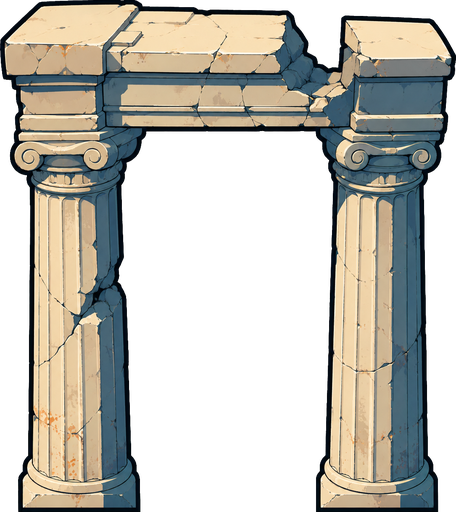
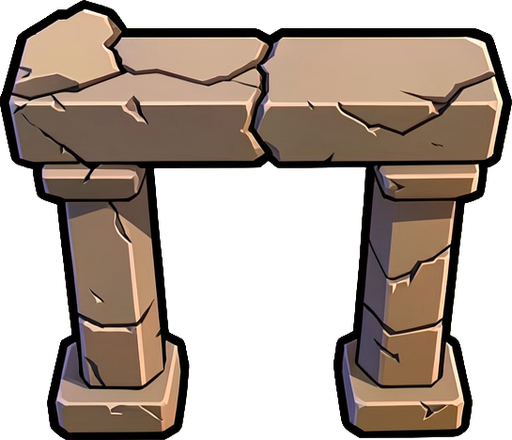
Арт Исмары: корабль, храм, каменные пропы, палица и детали кикона
Одиннадцать картинок из локальной очереди. Что изменилось на экране:

Берег перестал быть пустым полем — на нём стоит вытащенный на катки
корабль. Арена перестала быть четырьмя серыми колоннами: за спиной босса
стоит сгоревший храм, и площадь наконец читается так, как описана в
islands/01-ismaros.md. Колонны, ворота, валун и щебень были геометрией и
на фоне нарисованных хижины и шпалеры смотрелись бетонными плитами —
теперь они одной руки с остальным островом. Палица легла в руку вместо
меча.

Обычный кикон собирается из частей и машет: тело, рука, нога отдельными
картинками на общем риге.

Две ошибки, которые нашлись на скриншотах и здесь же исправлены:

Риг был один на остров и подменял собой элиту, вождя и босса — на арене
вместо бронзового вождя с бычьим черепом стоял увеличенный рядовой кикон.
Теперь риг задаётся по тирам, и своя картинка тира никуда не девается.

Ландмарки ставились по доле мира без оглядки на землю. Высота мира зависит
от окна, а срез под HUD абсолютный: на низком окне верхняя зона сжимается,
и храм с долей 0.075 повис над чёрным полем за стеной. Клампятся в ту же
землю, по которой ходит игрок; на этот случай заведён отдельный тест с
низким миром — на высоком такой ландмарк проходит.

tools/cutout.py считает рамку по непрозрачному, а не по любой альфе: мягкая
тень генератора оставляла по краю кадра единичные пиксели, getbbox отдавал
весь квадрат, и корабль уезжал в середину пустого поля — движок ставит на
[…]

diff --git a/src/ui/AssetManifest.ts b/src/ui/AssetManifest.ts
@@ -41,12 +41,12 @@ export const SPRITES = {
   'odysseus-cloak': { src: 'art/entities/odysseus/cloak.png', width: 366, height: 384 },
   'odysseus-sword': { src: 'art/entities/odysseus/sword.png', width: 123, height: 384 },
   'odysseus-spear': { src: 'art/entities/odysseus/spear.png', width: 45, height: 384 },
-  'odysseus-club': { src: 'art/entities/odysseus/club.png', width: 96, height: 384 },
+  'odysseus-club': { src: 'art/entities/club.png', width: 108, height: 512 },
   // Детали кикона. Костюм на острове один на все три тира (ISLANDS.md §1.5),
   // поэтому набор общий: тиры различает размер фигуры и кольцо ранга.
-  'kikon-torso': { src: 'art/entities/kikon/torso.png', width: 256, height: 384 },
-  'kikon-arm': { src: 'art/entities/kikon/arm.png', width: 96, height: 384 },
-  'kikon-leg': { src: 'art/entities/kikon/leg.png', width: 104, height: 384 },
+  'kikon-torso': { src: 'art/entities/kikon-torso.png', width: 345, height: 442 },
+  'kikon-arm': { src: 'art/entities/kikon-arm.png', width: 149, height: 429 },
+  'kikon-leg': { src: 'art/entities/kikon-leg.png', width: 113, height: 466 },
   'road-segment': { src: 'art/road/segment.png', width: 128, height: 128 },
   'border-wall': { src: 'art/borders/wall.png', width: 512, height: 256 },
 
@@ -64,6 +64,17 @@ export const SPRITES = {
   'prop-cart-broken': { src: 'art/props/cart-broken.png', width: 512, height: 312 },
   'prop-palisade-burnt': { src: 'art/props/palisade-burnt.png', width: 512, height: 421 },
   'prop-hut-burnt': { src: 'art/props/hut-burnt.png', width: 512, height: 341 },
+  // Ландмарки: корабль на берегу и сгоревший храм за спиной босса. Без них
+  // берег оставался пустым полем, а арена — четырьмя серыми колоннами.
+  'prop-ship': { src: 'art/props/ship-beached.png', width: 512, height: 487 },
+  'prop-temple': { src: 'art/props/temple-burnt.png', width: 512, height: 498 },
+  // Колонны, ворота, валун и щебень были геометрией (ui/props/Models.ts) и на
+  // фоне нарисованных хижины и шпалеры читались как серо-голубые плиты.
+  'prop-column': { src: 'art/props/column.png', width: 245, height: 512 },
+  'prop-column-broken': { src: 'art/props/column-broken.png', width: 393, height: 512 },
+  'prop-ruin-gate': { src: 'art/props/ruin-gate.png', width: 512, height: 440 },
+  'prop-rock': { src: 'art/props/rock.png', width: 491, height: 478 },
+  'prop-rubble': { src: 'art/props/rubble.png', width: 435, height: 362 },
 } as const satisfies Record<string, SpriteDef>;
 
 export type SpriteId = keyof typeof SPRITES;

diff --git a/tests/island-layout.test.ts b/tests/island-layout.test.ts
@@ -27,6 +27,18 @@ function makeGame(seed = balance.rng.defaultSeed): Game {
   return new Game(worldWidth, worldHeight, idleInput, () => {}, seed);
 }
 
+/**
+ * Мир на низком окне. Высота мира зависит от окна (viewHeight × worldScreensY),
+ * а верхний срез под HUD — абсолютный. Значит на коротком экране верхняя зона
+ * сжимается сильнее всего, и доля 0.075 уезжает за стену. Проверяется отдельно
+ * именно поэтому: на высоком мире такой ландмарк проходит, а на телефоне с
+ * низким окном повисает над чёрным полем.
+ */
+function makeShortGame(): Game {
+  const shortWorldHeight = 440 * balance.render.worldScreensY;
+  return new Game(worldWidth, shortWorldHeight, idleInput, () => {}, balance.rng.defaultSeed);
+}
+
 const layout = islandLayout(currentIslandId()) as IslandLayout;
 
 describe('Раскладка Исмары', () => {
@@ -254,6 +266,31 @@ describe('Препятствия', () => {
   it('у мелочи следа нет: щебень и черепки игрока не цепляют', () => {
     for (const id of ['prop-rubble', 'prop-rock-small', 'prop-amphora', 'prop-campfire'] as const) {
       expect(footprintOf(id), id).toBeNull();
+    }
+  });
+});
+
+describe('Раскладка на низком окне', () => {
+  beforeEach(() => clearNodes());
+
+  it('ландмарки не уезжают за стену острова', () => {
+    const game = makeShortGame();
+    const land = game.scenery.border;
+    for (const prop of game.scenery.props) {
+      expect(prop.x, `${prop.id} за левым краем`).toBeGreaterThanOrEqual(land.x - 0.001);
+      expect(prop.x, `${prop.id} за правым краем`)
+        .toBeLessThanOrEqual(land.x + land.width + 0.001);
+      expect(prop.y, `${prop.id} выше стены`).toBeGreaterThanOrEqual(land.y - 0.001);
+      expect(prop.y, `${prop.id} ниже стены`)
+        .toBeLessThanOrEqual(land.y + land.height + 0.001);
+    }
+  });
+
+  it('босс и вожди остаются внутри земли', () => {
+    const game = makeShortGame();
+    const land = game.scenery.border;
+    for (const enemy of game.enemies) {
+      expect(enemy.y, `${enemy.tier} выше стены`).toBeGreaterThanOrEqual(land.y - 0.001);
     }
   });
 });

diff --git a/src/ui/IslandArt.ts b/src/ui/IslandArt.ts
@@ -17,11 +17,15 @@ export interface IslandArt {
   /** Фигуры врагов по тиру. Тир без записи падает на общий запасной силуэт. */
   readonly enemies?: Partial<Record<EnemyTier, SpriteId>>;
   /**
-   * Из чего собран враг острова, если его порезали на части. Нет записи —
-   * рисуется цельная картинка, как раньше: недостающие детали не должны
-   * ронять остров, они добавляются по одной.
+   * Из чего собран враг острова, ПО ТИРАМ. Тир без записи рисуется цельной
+   * картинкой, как раньше.
+   *
+   * Именно по тирам, а не один риг на остров: элита, вождь и босс отличаются
+   * бронёй, плащом и гребнем (ISLANDS.md §1.5), и общий набор деталей стёр бы
+   * всю эскалацию — на арене вместо бронзового вождя с бычьим черепом стоял
+   * бы увеличенный рядовой кикон.
    */
-  readonly enemyRig?: Rig;
+  readonly enemyRig?: Partial<Record<EnemyTier, Rig>>;
   readonly road?: SpriteId;
   readonly border?: SpriteId;
 }
@@ -34,7 +38,7 @@ export const ISLAND_ART: Readonly<Record<string, IslandArt>> = {
       miniboss: 'ismaros-miniboss',
       boss: 'ismaros-boss',
     },
-    enemyRig: KIKON_RIG,
+    enemyRig: { normal: KIKON_RIG },
     road: 'ismaros-road',
     border: 'ismaros-border',
   },
@@ -52,9 +56,9 @@ export function enemySpriteChain(island: string, tier: EnemyTier): readonly Spri
   return own ? [own, ...fallback] : fallback;
 }
 
-/** Скелет врага острова. null — фигура рисуется цельной картинкой. */
-export function islandEnemyRig(island: string): Rig | null {
-  return ISLAND_ART[island]?.enemyRig ?? null;
+/** Скелет врага этого тира. null — фигура рисуется цельной картинкой. */
+export function islandEnemyRig(island: string, tier: EnemyTier): Rig | null {
+  return ISLAND_ART[island]?.enemyRig?.[tier] ?? null;
 }
 
 /** Дорога острова, иначе общий сегмент. */

diff --git a/src/world/Decor.ts b/src/world/Decor.ts
@@ -23,7 +23,9 @@ export type DecorId =
   | 'prop-wine-press'
   | 'prop-cart-broken'
   | 'prop-palisade-burnt'
-  | 'prop-hut-burnt';
+  | 'prop-hut-burnt'
+  | 'prop-ship'
+  | 'prop-temple';
 
 export interface DecorPlacement {
   readonly id: DecorId;
@@ -69,10 +71,20 @@ const COMMON: DecorSet = {
  */
 export function placeLandmarks(layout: IslandLayout, bounds: DecorBounds): DecorPlacement[] {
   const placed: DecorPlacement[] = [];
+  // Доля мира по вертикали переводится в единицы не сама по себе: сверху
+  // мир срезан на HUD и отбивку (bounds.top), а высота мира зависит от окна.
+  // На низком окне верхняя зона сжимается, и ландмарк с долей 0.075 уезжает
+  // за стену — храм повисал над чёрным полем. Клампим в ту же землю, по
+  // которой ходит игрок.
+  const land = clampRect({ x: 0, y: 0, width: bounds.width, height: bounds.height }, bounds);
   for (const zone of layout.zones) {
     for (const landmark of zone.landmarks ?? []) {
       const point = toWorld(landmark.at, bounds);
-      placed.push({ id: landmark.prop, x: point.x, y: point.y });
+      placed.push({
+        id: landmark.prop,
+        x: Math.min(Math.max(point.x, land.x), land.x + land.width),
+        y: Math.min(Math.max(point.y, land.y), land.y + land.height),
+      });
     }
   }
   return placed;

diff --git a/src/ui/rig/RigParts.ts b/src/ui/rig/RigParts.ts
@@ -137,7 +137,7 @@ const KIKON_BONES: readonly Bone[] = [
     sprite: 'kikon-leg',
     pivotX: 0.5, pivotY: 0.05,
     height: 0.36,
-    socketX: 0.66, socketY: 0.86,
+    socketX: 0.6, socketY: 0.87,
     parent: 'torso',
     behind: true,
   },
@@ -146,7 +146,7 @@ const KIKON_BONES: readonly Bone[] = [
     sprite: 'kikon-arm',
     pivotX: 0.5, pivotY: 0.07,
     height: 0.38,
-    socketX: 0.87, socketY: 0.4,
+    socketX: 0.83, socketY: 0.42,
     parent: 'torso',
     behind: true,
   },
@@ -164,7 +164,7 @@ const KIKON_BONES: readonly Bone[] = [
     sprite: 'kikon-leg',
     pivotX: 0.5, pivotY: 0.05,
     height: 0.36,
-    socketX: 0.34, socketY: 0.86,
+    socketX: 0.4, socketY: 0.87,
     parent: 'torso',
     behind: false,
   },
@@ -173,7 +173,7 @@ const KIKON_BONES: readonly Bone[] = [
     sprite: 'kikon-arm',
     pivotX: 0.5, pivotY: 0.07,
     height: 0.38,
-    socketX: 0.13, socketY: 0.43,
+    socketX: 0.17, socketY: 0.45,
     parent: 'torso',
     behind: false,
   },

diff --git a/src/ui/props/Pictures.ts b/src/ui/props/Pictures.ts
@@ -17,12 +17,16 @@ import { sprites } from '../Sprites.ts';
 export type PicturePropId = Extract<
   SpriteId,
   'prop-vine-trellis' | 'prop-wine-press' | 'prop-cart-broken'
-  | 'prop-palisade-burnt' | 'prop-hut-burnt'
+  | 'prop-palisade-burnt' | 'prop-hut-burnt' | 'prop-ship' | 'prop-temple'
+  | 'prop-column' | 'prop-column-broken' | 'prop-ruin-gate'
+  | 'prop-rock' | 'prop-rubble'
 >;
 
 const PICTURE_PROPS: readonly PicturePropId[] = [
   'prop-vine-trellis', 'prop-wine-press', 'prop-cart-broken',
-  'prop-palisade-burnt', 'prop-hut-burnt',
+  'prop-palisade-burnt', 'prop-hut-burnt', 'prop-ship', 'prop-temple',
+  'prop-column', 'prop-column-broken', 'prop-ruin-gate',
+  'prop-rock', 'prop-rubble',
 ];
 
 export function isPictureProp(id: string): id is PicturePropId {

diff --git a/src/ui/Figures.ts b/src/ui/Figures.ts
@@ -23,7 +23,7 @@ import { bar, ui } from './UiKit.ts';
 export function drawEnemyBody(ctx: CanvasRenderingContext2D, enemy: Enemy, game: Game): void {
   const { anim, palette } = getBalance();
   const push = enemyPush(enemy, game);
-  const rig = islandEnemyRig(currentIslandId());
+  const rig = islandEnemyRig(currentIslandId(), enemy.tier);
   // Маршрут замирает, пока враг сцеплен (Patrol.stepPatrols) — значит и ноги
   // должны встать: в бою он бьёт, а не топчется.
   const moving = enemy.alive && !game.isEngaged(enemy) && (enemy.patrol?.speed ?? 0) > 0;

diff --git a/tools/cutout.py b/tools/cutout.py
@@ -39,7 +39,13 @@ def cutout(src: str, dst: str, max_side: int | None) -> None:
     # красного и синего, иначе по контуру идёт салатовая кайма.
     out = Image.merge('RGBA', (r, ImageChops.darker(g, max_rb), b, alpha))
 
-    box = alpha.getbbox()
+    # Рамка считается по НЕПРОЗРАЧНОМУ, а не по всему, где альфа больше нуля.
+    # Мягкая тень генератора оставляет по краю кадра единичные пиксели с
+    # альфой в пару единиц, и getbbox по ним возвращает весь квадрат: объект
+    # уезжает в середину огромного пустого поля, а движок ставит на землю
+    # низ КАРТИНКИ — корабль повисает в воздухе и оказывается втрое меньше.
+    solid = alpha.point(lambda v: 255 if v > 32 else 0)
+    box = solid.getbbox()
     if box:
         out = out.crop(box)
     if max_side and max(out.size) > max_side:
